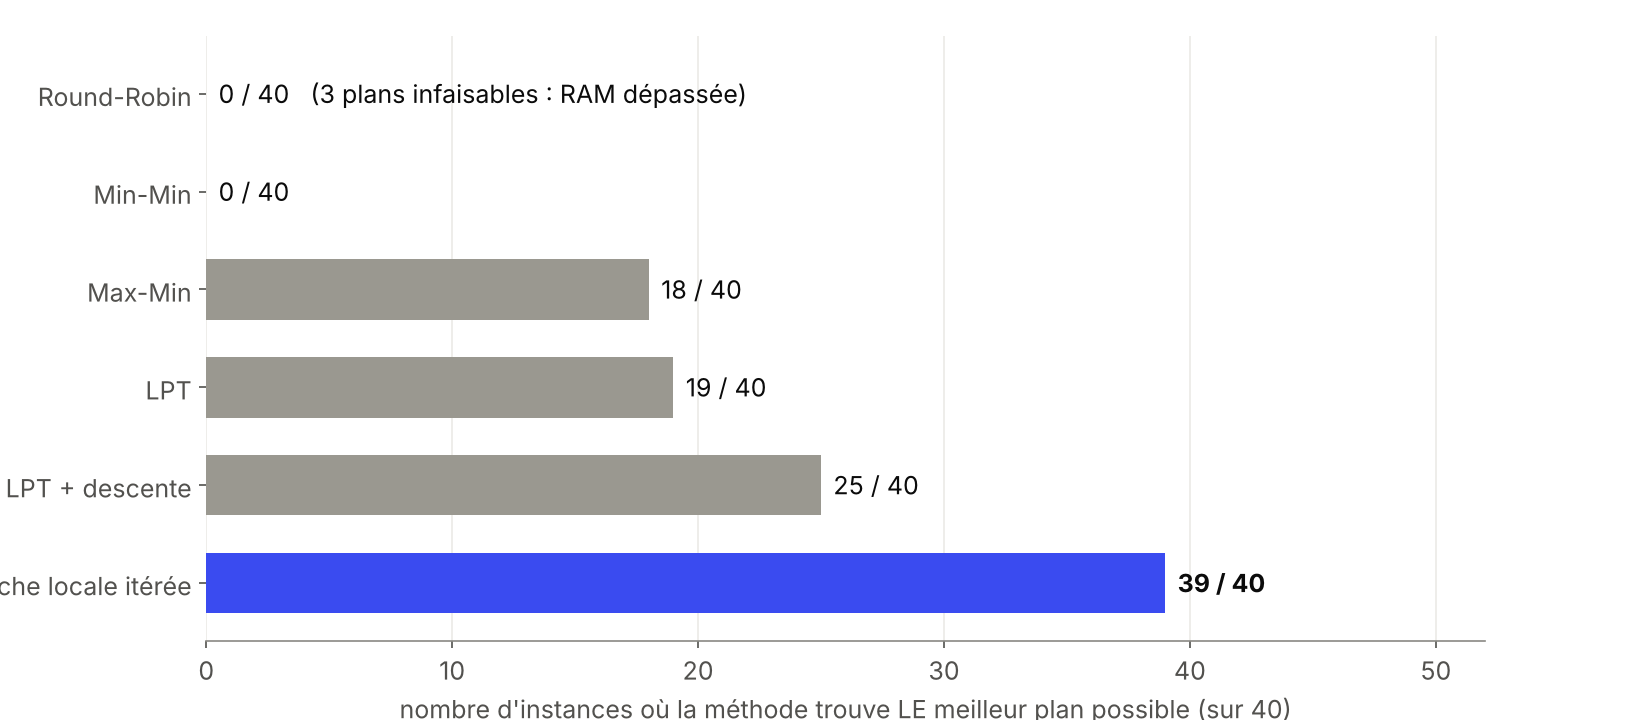
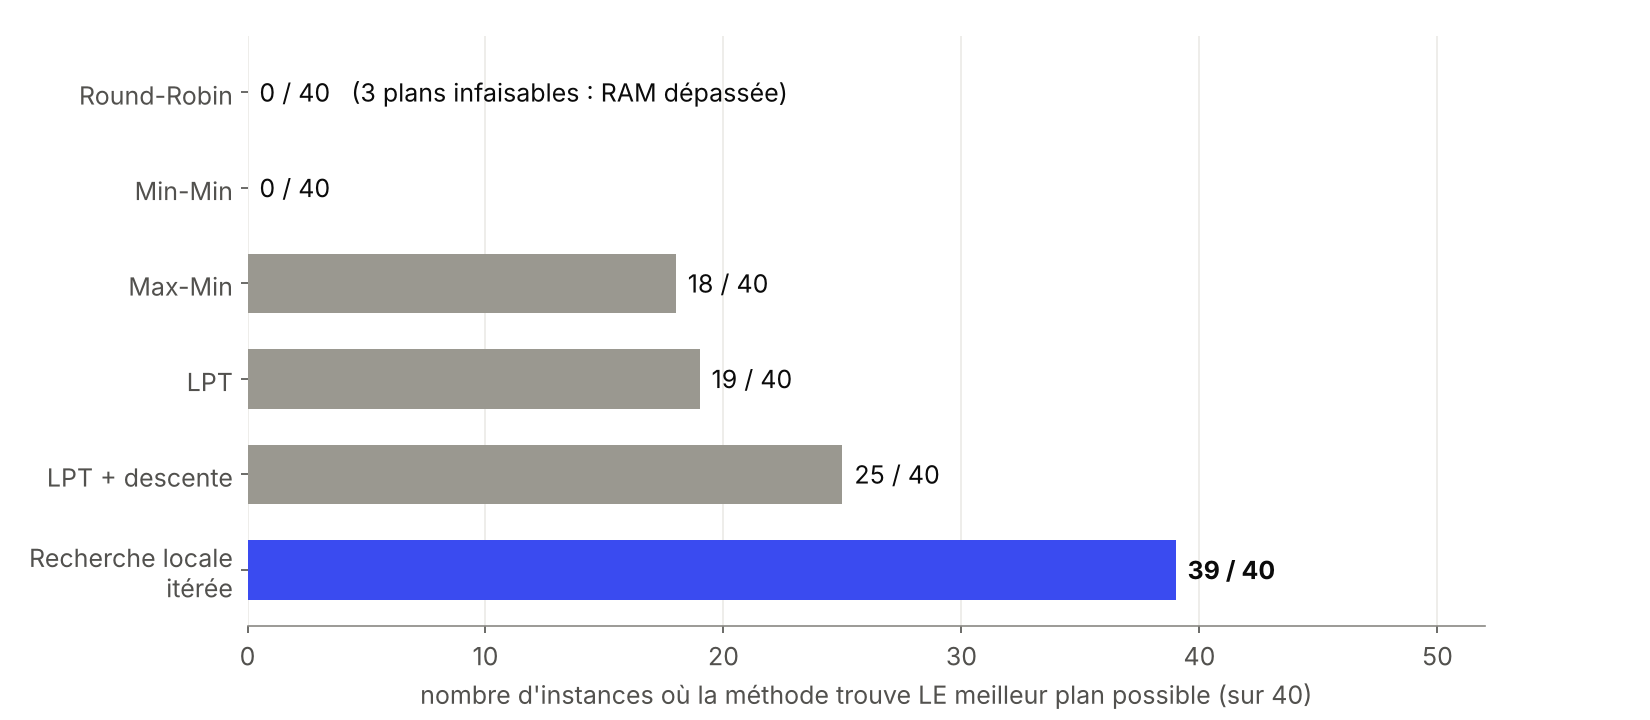
Oral figures: readable method label on the quality chart, model annotation off the points
Claude-Session: https://claude.ai/code/session_01SCTEdAjEjwt5ttgCi6ADz5

diff --git a/scripts/make_oral_figures.py b/scripts/make_oral_figures.py
@@ -137,10 +137,10 @@ ax.fill_between([0, lim], [-1, lim - 1], [1, lim + 1], color=BLUE_L, alpha=0.45,
 ax.plot([0, lim], [0, lim], color=INK3, lw=1, ls="--")
 ax.scatter([b for a, b in pts], [a for a, b in pts], s=46, color=BLUE, edgecolor="white", linewidth=1.2, zorder=3)
 ax.text(lim * 0.97, lim * 0.97 - 0.2, "prédit = mesuré", ha="right", va="top", fontsize=10.5, color=INK2, rotation=0)
-ax.text(lim * 0.62, lim * 0.62 - 2.6, "zone ±1 s", fontsize=10.5, color=BLUE)
+ax.text(lim * 0.30, lim * 0.30 - 2.6, "zone ±1 s", fontsize=10.5, color=BLUE)
 out_ = max(pts, key=lambda x: x[1] - x[0])
 if out_[1] - out_[0] > 2:
-    ax.annotate("un run lent : variabilité du cloud", (out_[1], out_[0]), (out_[1] - 0.5, out_[0] - 3.5), ha="right",
+    ax.annotate("un run lent : variabilité du cloud", (out_[1], out_[0]), (out_[1] - 0.3, out_[0] - 8.5), ha="right",
                 fontsize=10, color=INK2, arrowprops=dict(arrowstyle="-", color=INK3, lw=0.8))
 ax.set_xlim(0, lim); ax.set_ylim(0, lim)
 ax.set_xlabel("temps de fin MESURÉ d'une VM (s)"); ax.set_ylabel("temps de fin PRÉDIT par le modèle (s)")
@@ -224,7 +224,7 @@ save(fig, "oral_real_run", top=0.78)
 # ---------------------------------------------------------------------------------------------- quality
 q = [r for r in csv.DictReader(open("results/scaling.csv")) if r["part"] == "quality"]
 meth = [("rr", "Round-Robin"), ("minmin", "Min-Min"), ("maxmin", "Max-Min"), ("lpt", "LPT"), ("ls", "LPT + descente"),
-        ("ils", "Recherche locale itérée")]
+        ("ils", "Recherche locale\nitérée")]
 fig, ax = plt.subplots(figsize=(11, 4.8))
 for i, (mk, lab) in enumerate(meth):
     rs = [r for r in q if r["method"] == mk]
@@ -240,7 +240,8 @@ ax.set_xlim(0, 52); ax.set_xlabel("nombre d'instances où la méthode trouve LE 
 ax.grid(axis="y", visible=False)
 head(fig, "La recherche locale itérée trouve le meilleur plan possible 39 fois sur 40",
      "40 petits problèmes résolus exactement par le branch and bound (lui-même vérifié par force brute sur 8 cas).")
-save(fig, "oral_quality", top=0.80)
+fig.subplots_adjust(left=0.15)
+save(fig, "oral_quality", top=0.80, bottom=0.13)
 
 # ---------------------------------------------------------------------------------------------- scaling
 import math
